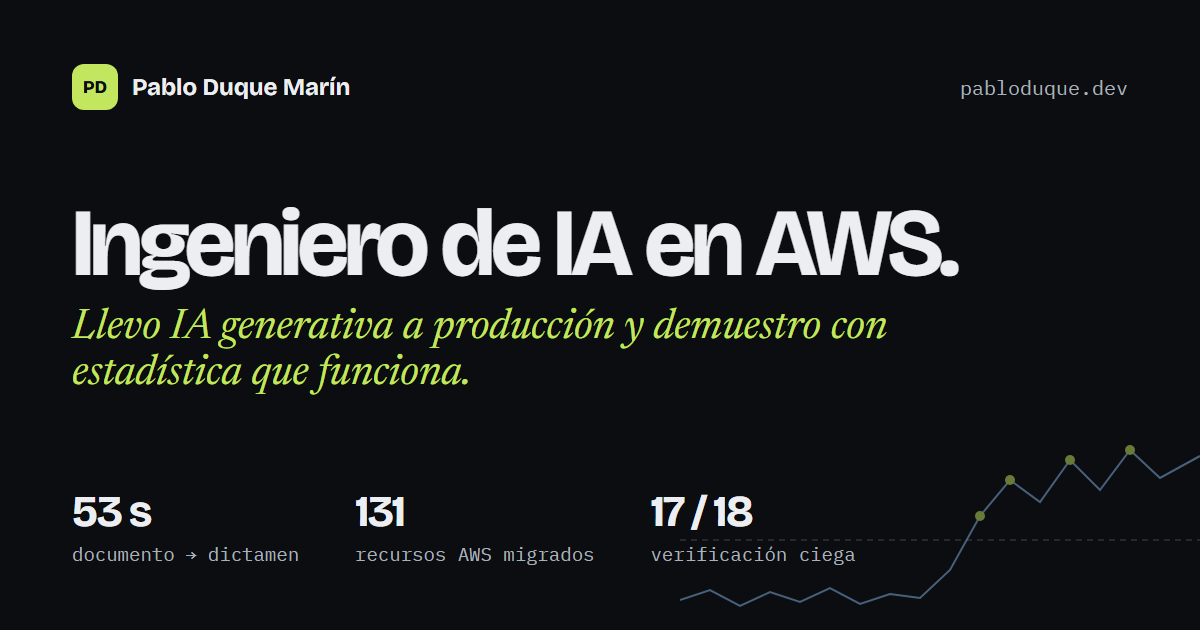
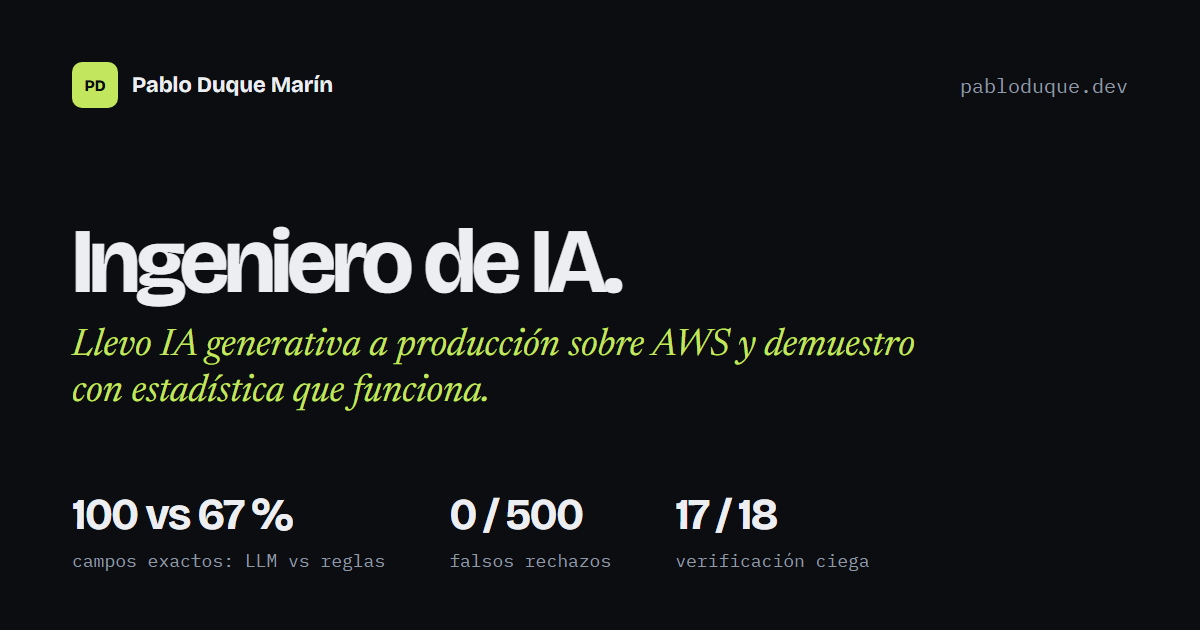
Hero: titular sin ambigüedad, disponibilidad real y cifras con comparación
- H1 «Ingeniero de IA.» (sin «en AWS», que se leía como empleado de Amazon); title, og:title y resumen alineados.
- Píldora: freelance ahora, tiempo completo desde ene. 2027.
- Cifras del hero con resultado, comparación y enlace al caso: Facturas (100 % frente a 67 % con reglas), Cotejo (0 falsos rechazos en 500) y TFM (17/18, «no verificado»).
- «Ver casos» como botón primario; CV secundario.
- Inglés fuera del hero, descrito como capacidad en Contacto.
- TFM sin la fecha de entrega en presente; grado corregido a Subteniente.
- og.png regenerada con el nuevo titular.

diff --git a/site/content.js b/site/content.js
@@ -9,11 +9,11 @@ window.PD = {
     es: {
       navWork: 'Trabajo', navSkills: 'Competencias', navMethod: 'Método', navPath: 'Trayectoria', navContact: 'Contacto',
       summary: 'Resumen 1 pág.', summaryShort: 'Resumen', cv: 'CV', cvLong: 'Descargar CV (PDF)', langAria: 'Cambiar idioma', paletteAria: 'Paleta de comandos',
-      pill: 'Disponible para roles y proyectos de ingeniería de IA · remoto',
-      h1: 'Ingeniero de IA en AWS.',
-      h1b: 'Llevo IA generativa a producción y demuestro con estadística que funciona.',
+      pill: 'Disponible: freelance ahora · tiempo completo desde ene. 2027 · remoto',
+      h1: 'Ingeniero de IA.',
+      h1b: 'Llevo IA generativa a producción sobre AWS y demuestro con estadística que funciona.',
       lead: ['Diseño pipelines de documentos, RAG y agentes sobre Amazon Bedrock, con infraestructura en Terraform y pruebas automatizadas.', 'Mido si funcionan con protocolos fijados antes de ver los datos, y publico también los resultados negativos.'],
-      ctaWork: 'Ver casos', hire: 'Caldas, Colombia · remoto (UTC−5) · español nativo, inglés B1–B2',
+      ctaWork: 'Ver casos', hire: 'Caldas, Colombia · remoto (UTC−5)',
       edu: 'Máster en IA, UNIR (finaliza feb. 2027) · Maestría en Estadística Aplicada, U. Cuauhtémoc (en curso) · Prácticas en Softart hasta dic. 2026',
       copy: 'Copiar', copied: 'Copiado', copyAria: 'Copiar correo', toastCopied: 'Correo copiado',
       monKicker: 'Lo que hago, en una carta de control',
@@ -30,22 +30,22 @@ window.PD = {
       stackTitle: 'Stack por función', stackSub: 'Nivel de uso real: producción, proyectos propios o formación.', lvPro: 'PRODUCCIÓN', lvInv: 'PROYECTOS', lvPos: 'FORMACIÓN',
       methodKicker: '03 — Método', methodTitle: 'Cuatro reglas de trabajo',
       pathKicker: '04 — Trayectoria', pathTitle: 'Trayectoria', kWork: 'TRABAJO', kEdu: 'FORMACIÓN',
-      contactKicker: '05 — Contacto', ctA: '¿Tu modelo funciona?', ctB: 'Averigüémoslo.', ctSub: 'Roles de ingeniería de IA, proyectos de documentos con IA, RAG o evaluación de modelos. Respondo en español o inglés.',
+      contactKicker: '05 — Contacto', ctA: '¿Tu modelo funciona?', ctB: 'Averigüémoslo.', ctSub: 'Roles de ingeniería de IA y de evaluación y validación de modelos, o proyectos de documentos con IA y RAG. Respondo en español o en inglés; leo y escribo documentación técnica en inglés.',
       close: 'Cerrar', problem: 'Problema', did: 'Qué hice', decisions: 'Decisiones', result: 'Resultado', repo: 'Ver repositorio', demo: 'Probar la demo', private: 'Código privado del cliente', local: 'Repositorio privado',
       prev: 'Caso anterior', next: 'Caso siguiente', replay: 'Repetir', schematic: 'Esquema ilustrativo', ongoing: 'En curso', building: 'En construcción',
       palPh: 'Ir a una sección, un caso o una acción…', palEmpty: 'Sin resultados', palNav: 'navegar', palGo: 'abrir', gSec: 'sección', gCase: 'caso', gAct: 'acción',
       aLang: 'Switch to English', aCopy: 'Copiar correo', aCv: 'Descargar CV', aSummary: 'Abrir resumen de una página',
-      rcHead: 'Ingeniero de IA en AWS · IA generativa en producción · estadística aplicada', remote: 'remoto', rcExp: 'EXPERIENCIA', rcEdu: 'FORMACIÓN', rcCases: 'RESULTADOS', rcStack: 'STACK', rcLang: 'IDIOMAS', rcLangs: 'Español nativo · inglés B1–B2',
+      rcHead: 'Ingeniero de IA · IA generativa en producción sobre AWS · estadística aplicada', remote: 'remoto', rcExp: 'EXPERIENCIA', rcEdu: 'FORMACIÓN', rcCases: 'RESULTADOS', rcStack: 'STACK', rcLang: 'IDIOMAS', rcLangs: 'Español nativo · inglés técnico (B1–B2): leo y escribo documentación',
       footBuilt: 'Desplegado con Terraform en AWS: S3, CloudFront y GitHub Actions con OIDC', footKeys: 'Atajo: Ctrl + K', updated: 'Actualizado'
     },
     en: {
       navWork: 'Work', navSkills: 'Skills', navMethod: 'Method', navPath: 'Path', navContact: 'Contact',
       summary: '1-page summary', summaryShort: 'Summary', cv: 'CV', cvLong: 'Download CV (PDF)', langAria: 'Change language', paletteAria: 'Command palette',
-      pill: 'Available for AI engineering roles and projects · remote',
-      h1: 'AI engineer on AWS.',
-      h1b: 'I take generative AI to production and prove with statistics that it works.',
+      pill: 'Available: freelance now · full-time from Jan 2027 · remote',
+      h1: 'AI engineer.',
+      h1b: 'I take generative AI to production on AWS and prove with statistics that it works.',
       lead: ['I design document, RAG and agent pipelines on Amazon Bedrock, with Terraform infrastructure and automated tests.', 'I measure whether they work with protocols fixed before looking at the data, and I publish negative results too.'],
-      ctaWork: 'See case studies', hire: 'Caldas, Colombia · remote (UTC−5) · native Spanish, English B1–B2',
+      ctaWork: 'See case studies', hire: 'Caldas, Colombia · remote (UTC−5)',
       edu: 'MSc in AI, UNIR (ends Feb 2027) · MSc in Applied Statistics, U. Cuauhtémoc (in progress) · Internship at Softart until Dec 2026',
       copy: 'Copy', copied: 'Copied', copyAria: 'Copy email', toastCopied: 'Email copied',
       monKicker: 'What I do, as a control chart',
@@ -62,21 +62,21 @@ window.PD = {
       stackTitle: 'Stack by function', stackSub: 'Real level of use: production, own projects or coursework.', lvPro: 'PRODUCTION', lvInv: 'PROJECTS', lvPos: 'COURSEWORK',
       methodKicker: '03 — Method', methodTitle: 'Four working rules',
       pathKicker: '04 — Path', pathTitle: 'Path', kWork: 'WORK', kEdu: 'EDUCATION',
-      contactKicker: '05 — Contact', ctA: 'Does your model work?', ctB: 'Let’s find out.', ctSub: 'AI engineering roles, AI document projects, RAG or model evaluation. I reply in Spanish or English.',
+      contactKicker: '05 — Contact', ctA: 'Does your model work?', ctB: 'Let’s find out.', ctSub: 'AI engineering and model evaluation and validation roles, or AI document and RAG projects. I reply in Spanish or English, and I read and write technical documentation in English.',
       close: 'Close', problem: 'Problem', did: 'What I did', decisions: 'Decisions', result: 'Outcome', repo: 'View repository', demo: 'Try the demo', private: 'Private client code', local: 'Private repository',
       prev: 'Previous case', next: 'Next case', replay: 'Replay', schematic: 'Illustrative schematic', ongoing: 'Ongoing', building: 'Under construction',
       palPh: 'Jump to a section, case or action…', palEmpty: 'No results', palNav: 'navigate', palGo: 'open', gSec: 'section', gCase: 'case', gAct: 'action',
       aLang: 'Cambiar a español', aCopy: 'Copy email', aCv: 'Download CV', aSummary: 'Open one-page summary',
-      rcHead: 'AI engineer on AWS · generative AI in production · applied statistics', remote: 'remote', rcExp: 'EXPERIENCE', rcEdu: 'EDUCATION', rcCases: 'RESULTS', rcStack: 'STACK', rcLang: 'LANGUAGES', rcLangs: 'Native Spanish · English B1–B2',
+      rcHead: 'AI engineer · generative AI in production on AWS · applied statistics', remote: 'remote', rcExp: 'EXPERIENCE', rcEdu: 'EDUCATION', rcCases: 'RESULTS', rcStack: 'STACK', rcLang: 'LANGUAGES', rcLangs: 'Native Spanish · technical English (B1–B2): I read and write documentation',
       footBuilt: 'Deployed with Terraform on AWS: S3, CloudFront and GitHub Actions with OIDC', footKeys: 'Shortcut: Ctrl + K', updated: 'Updated'
     }
   },
 
-  /* Tres métricas en la portada */
+  /* Tres métricas en la portada: resultado + comparación + caso con la evidencia (c) */
   heroStats: [
-    { v: '53 s', l: { es: 'del documento al dictamen, en producción', en: 'from document to ruling, in production' } },
-    { v: '131', l: { es: 'recursos AWS migrados a Frankfurt, plan sin diferencias', en: 'AWS resources moved to Frankfurt, zero-diff plan' } },
-    { v: '0 / 500', l: { es: 'sentencias reales marcadas por error como inexistentes', en: 'real rulings wrongly flagged as non-existent' } }
+    { v: '100 %|100%', c: 'facturas', l: { es: 'campos exactos con Claude en Bedrock; con reglas, 67 % · demo pública', en: 'exact fields with Claude on Bedrock; with rules, 67% · public demo' } },
+    { v: '0 / 500', c: 'cotejo', l: { es: 'falsos rechazos en sentencias reales; 499 de 499 inventadas detectadas', en: 'false rejections on real rulings; 499 of 499 invented ones caught' } },
+    { v: '17 / 18', c: 'tfm', l: { es: 'fallas iguales a la literatura, y aun así «no verificado»', en: 'faults matching the literature, and still “not verified”' } }
   ],
 
   /* Resultado → decisión (respaldo estadístico) */
@@ -107,7 +107,7 @@ window.PD = {
     { id: 'cotejo', kicker: { es: 'Proyecto propio · legal-tech · Colombia · 2026', en: 'Own project · legal tech · Colombia · 2026' },
       title: { es: 'Cotejo: verificar la jurisprudencia citada antes de radicar', en: 'Cotejo: checking cited case law before filing' },
       sum: { es: 'Revisa cada sentencia citada en un escrito contra fuentes oficiales: que exista, que no esté anulada y que la cita sea literal.', en: 'Checks every ruling cited in a brief against official sources: that it exists, was not annulled and is quoted verbatim.' },
-      mv: '0 / 500', ml: { es: 'sentencias reales marcadas por error como inexistentes', en: 'real rulings wrongly flagged as non-existent' },
+      mv: '0 / 500', ml: { es: 'falsos rechazos en 500 sentencias reales', en: 'false rejections across 500 real rulings' },
       metrics: [['0 / 500', { es: 'falsos «no existe» en sentencias reales', en: 'false “does not exist” on real rulings' }], ['499 / 499', { es: 'sentencias inventadas detectadas', en: 'invented rulings caught' }], ['0', { es: 'pasajes alterados aceptados como correctos', en: 'altered passages accepted as correct' }], ['85 %', { es: 'citas inexistentes en escritos de un LLM local', en: 'non-existent citations in briefs written by a local LLM' }]],
       problem: { es: 'Tras la sanción AC739-2026 de la Corte Suprema por citas inexistentes, un abogado necesita saber antes de radicar si cada sentencia que cita existe y dice lo que el escrito afirma.', en: 'After a Supreme Court sanction (AC739-2026) over non-existent citations, a lawyer needs to know before filing whether each cited ruling exists and says what the brief claims.' },
       did: { es: 'Construí una herramienta local (web y línea de comandos) que extrae las citas de un escrito y las contrasta con el índice de 29.474 sentencias de datos.gov.co y la relatoría: existencia, anulación, magistrado ponente y pasajes entre comillas, comparados palabra por palabra.', en: 'I built a local tool (web and command line) that extracts the citations from a brief and checks them against the 29,474-ruling index on datos.gov.co and the court reporter: existence, annulment, reporting judge, and quoted passages compared word by word.' },
@@ -132,7 +132,7 @@ window.PD = {
       mv: '17 / 18', ml: { es: 'fallas idénticas a Yin (2012) · veredicto: no verificado', en: 'faults identical to Yin (2012) · verdict: not verified' },
       metrics: [['17 / 18', { es: 'fallas idénticas en la verificación ciega', en: 'faults identical in the blind check' }], ['1,46 %|1.46%', { es: 'falsas alarmas del baseline PCA-T²', en: 'PCA-T² baseline false alarms' }], ['643', { es: 'pruebas del paquete común tfmfdd', en: 'tests in the shared tfmfdd package' }], ['3', { es: 'integrantes; soy el vocero', en: 'team members; I am the spokesperson' }]],
       problem: { es: 'Detectar fallos en una planta química a partir de sus sensores (Tennessee Eastman: 52 variables, 20 tipos de falla) con un protocolo que haga comparables los tres bloques del equipo.', en: 'Detect faults in a chemical plant from its sensors (Tennessee Eastman: 52 variables, 20 fault types) with a protocol that makes the team’s three blocks comparable.' },
-      did: { es: 'Respondo por el bloque de detección: PCA con T² y SPE, DPCA, y KPCA planificado para nov.–dic. Diseñé y dirigí tfmfdd v0.3, el paquete común (643 pruebas), construido con agentes de Claude Code y dos revisiones independientes. Primera entrega de la memoria: 5 de octubre.', en: 'I own the detection block: PCA with T² and SPE, DPCA, and KPCA planned for Nov–Dec. I designed and led tfmfdd v0.3, the shared package (643 tests), built with Claude Code agents and two independent reviews. First thesis submission: 5 October.' },
+      did: { es: 'Respondo por el bloque de detección: PCA con T² y SPE, DPCA, y KPCA planificado para nov.–dic. Diseñé y dirigí tfmfdd v0.3, el paquete común (643 pruebas), construido con agentes de Claude Code y dos revisiones independientes.', en: 'I own the detection block: PCA with T² and SPE, DPCA, and KPCA planned for Nov–Dec. I designed and led tfmfdd v0.3, the shared package (643 tests), built with Claude Code agents and two independent reviews.' },
       decisions: { es: ['Verificación ciega contra Yin (2012) con tolerancia fijada antes de correr: |ΔFDR| ≤ 0,5 pp en las 18 fallas.', 'Comparaciones prerregistradas: equivalencia con dos pruebas unilaterales de Wilcoxon e intervalo de Hodges-Lehmann, corrección de Holm y regla de tamaño muestral.', 'Retiré una comparación propia al ver que estaba confundida. El experimento limpio: 27,4 % frente a 3,6 % de falsas alarmas SPE al calibrar con datos reservados.'], en: ['Blind check against Yin (2012) with a tolerance fixed before running: |ΔFDR| ≤ 0.5 pp across all 18 faults.', 'Preregistered comparisons: equivalence via two one-sided Wilcoxon tests and a Hodges–Lehmann interval, Holm correction and a sample-size rule.', 'I withdrew one of my own comparisons once I saw it was confounded. The clean experiment: 27.4% versus 3.6% SPE false alarms when calibrating on held-out data.'] },
       results: { es: ['17 de 18 fallas con diferencia de 0 muestras; IDV 19 quedó a +1,00 pp, el doble de la tolerancia: «no verificado».', 'Baseline PCA: falsas alarmas 1,46 % (T²) y 2,81 % (SPE); detección media 60,1 % y 66,6 %.', 'Las fallas 3, 9 y 15 se reportan aparte: casi indetectables (≈ 5 %).'], en: ['17 of 18 faults with 0 samples of difference; IDV 19 landed at +1.00 pp, twice the tolerance: “not verified”.', 'PCA baseline: false alarms 1.46% (T²) and 2.81% (SPE); mean detection 60.1% and 66.6%.', 'Faults 3, 9 and 15 are reported separately: nearly undetectable (≈ 5%).'] },
       tags: ['PCA', 'T² · SPE', 'DPCA', 'Wilcoxon', 'Hodges-Lehmann', 'Holm', 'tfmfdd'], repo: 'https://github.com/pabdus/tfm-fdd-core' },
@@ -270,7 +270,7 @@ window.PD = {
     ['2022 – 2023', 'e', 'Bootcamp de Data Science (800+ h)|Data Science bootcamp (800+ h)', 'Henry'],
     ['2022 – 2026', 'w', 'Analista de datos|Data analyst', 'Tubos y Perfiles de Occidente S.A.S. · ETL en Python y SQL para decisiones|Tubos y Perfiles de Occidente S.A.S. · Python ETL and SQL for decision-making'],
     ['2019 – 2022', 'w', 'Fundador y gerente general|Founder and general manager', 'Narnia Producciones (Chile)'],
-    ['2011 – 2018', 'w', 'Teniente, comandante de unidad|Lieutenant, unit commander', 'Policía Nacional de Colombia|Colombian National Police'],
+    ['2011 – 2018', 'w', 'Subteniente, comandante de unidad|Second lieutenant, unit commander', 'Policía Nacional de Colombia|Colombian National Police'],
     ['2007 – 2011', 'e', 'Administración Policial y técnico en sistemas|Police Administration and systems technician', 'Policía Nacional · IES-CINOC|National Police · IES-CINOC']
   ],
 

diff --git a/site/index.html b/site/index.html
@@ -3,15 +3,15 @@
 <head>
 <meta charset="utf-8">
 <meta name="viewport" content="width=device-width, initial-scale=1, viewport-fit=cover">
-<title>Pablo Duque Marín · Ingeniero de IA en AWS</title>
-<meta name="description" content="Ingeniero de IA en AWS: IA generativa en producción con Amazon Bedrock, Terraform y pruebas automatizadas, y estadística para demostrar que funciona. Caldas, Colombia · remoto.">
+<title>Pablo Duque Marín · Ingeniero de IA · AWS, Bedrock y estadística</title>
+<meta name="description" content="Ingeniero de IA: IA generativa en producción con Amazon Bedrock, Terraform y pruebas automatizadas, y estadística para demostrar que funciona. Caldas, Colombia · remoto.">
 <link rel="canonical" href="https://pabloduque.dev/">
 <meta name="theme-color" content="#0b0d11">
 <meta name="color-scheme" content="dark">
 <meta property="og:type" content="website">
 <meta property="og:url" content="https://pabloduque.dev/">
-<meta property="og:title" content="Pablo Duque Marín · Ingeniero de IA en AWS">
-<meta property="og:description" content="IA generativa en producción, con estadística para demostrar que funciona: 53 s del documento al dictamen, 131 recursos migrados sin diferencias.">
+<meta property="og:title" content="Pablo Duque Marín · Ingeniero de IA · AWS, Bedrock y estadística">
+<meta property="og:description" content="Llevo IA generativa a producción sobre AWS y demuestro con estadística que funciona: 100 % de campos exactos (67 % con reglas) y 0 falsos rechazos en 500 sentencias reales.">
 <meta property="og:image" content="https://pabloduque.dev/og.png">
 <meta property="og:locale" content="es_CO">
 <meta property="og:locale:alternate" content="en_US">
@@ -87,7 +87,9 @@ img,svg,canvas{max-width:100%}
 .hero-grid{display:grid;grid-template-columns:repeat(auto-fit,minmax(min(100%,420px),1fr));gap:28px 56px;margin-top:40px;align-items:start}
 .lead p{margin:0 0 12px;font-size:19px;line-height:1.6;color:var(--ink2);max-width:600px;text-wrap:pretty}
 .hero-stats{display:grid;grid-template-columns:repeat(3,minmax(0,1fr));gap:0;border-top:1px solid var(--line2);border-bottom:1px solid var(--line2)}
-.hstat{padding:18px 14px 18px 0}
+.hstat{display:flex;flex-direction:column;align-items:flex-start;text-align:left;padding:18px 14px 18px 0;border:0;background:none}
+.hstat-go{margin-top:10px;font-family:var(--mono);font-size:12px;color:var(--ink3);transition:color .2s}
+.hstat:hover .hstat-go,.hstat:focus-visible .hstat-go{color:var(--lime)}
 .hstat+.hstat{padding-left:16px;border-left:1px solid var(--line)}
 .hstat-v{font-size:clamp(30px,3.2vw,46px);font-weight:700;letter-spacing:-.04em;line-height:1;color:var(--ink);font-variant-numeric:tabular-nums;white-space:nowrap}
 .hstat-l{margin-top:8px;font-size:13px;line-height:1.4;color:#a9b1ba}
@@ -388,16 +390,16 @@ noscript p{padding:16px var(--pad);color:var(--ink2)}
 
 <main>
   <header id="top" class="hero">
-    <div class="pill"><i></i><span data-k="pill">Disponible para roles y proyectos de ingeniería de IA · remoto</span></div>
-    <h1 class="title" data-k="h1">Ingeniero de IA en AWS.</h1>
-    <p class="title-b" data-k="h1b">Llevo IA generativa a producción y demuestro con estadística que funciona.</p>
+    <div class="pill"><i></i><span data-k="pill">Disponible: freelance ahora · tiempo completo desde ene. 2027 · remoto</span></div>
+    <h1 class="title" data-k="h1">Ingeniero de IA.</h1>
+    <p class="title-b" data-k="h1b">Llevo IA generativa a producción sobre AWS y demuestro con estadística que funciona.</p>
 
     <div class="hero-grid">
       <div>
         <div class="lead" id="lead"><p>Diseño pipelines de documentos, RAG y agentes sobre Amazon Bedrock, con infraestructura en Terraform y pruebas automatizadas.</p><p>Mido si funcionan con protocolos fijados antes de ver los datos, y publico también los resultados negativos.</p></div>
         <div class="ctas">
-          <a class="btn-lime" href="Pablo_Duque_CV.pdf" download data-k="cvLong">Descargar CV (PDF)</a>
-          <a class="btn-line" href="#trabajo"><span data-k="ctaWork">Ver casos</span>&nbsp;→</a>
+          <a class="btn-lime" href="#trabajo"><span data-k="ctaWork">Ver casos</span>&nbsp;→</a>
+          <a class="btn-line" href="Pablo_Duque_CV.pdf" download data-k="cvLong">Descargar CV (PDF)</a>
         </div>
       </div>
       <div>
@@ -409,7 +411,7 @@ noscript p{padding:16px var(--pad);color:var(--ink2)}
             <button data-copy data-k-aria="copyAria" aria-label="Copiar correo">pabdus3000@gmail.com</button>
           </div>
         </div>
-        <div class="hire"><b data-k="hire">Caldas, Colombia · remoto (UTC−5) · español nativo, inglés B1–B2</b><br><span data-k="edu">Máster en IA, UNIR (finaliza feb. 2027) · Maestría en Estadística Aplicada, U. Cuauhtémoc (en curso) · Prácticas en Softart hasta dic. 2026</span></div>
+        <div class="hire"><b data-k="hire">Caldas, Colombia · remoto (UTC−5)</b><br><span data-k="edu">Máster en IA, UNIR (finaliza feb. 2027) · Maestría en Estadística Aplicada, U. Cuauhtémoc (en curso) · Prácticas en Softart hasta dic. 2026</span></div>
       </div>
     </div>
 
@@ -473,7 +475,7 @@ noscript p{padding:16px var(--pad);color:var(--ink2)}
     <div class="cbox" data-reveal>
       <div class="kicker" data-k="contactKicker">05 — Contacto</div>
       <h2 id="ct-title"><span data-k="ctA">¿Tu modelo funciona?</span> <em data-k="ctB">Averigüémoslo.</em></h2>
-      <p data-k="ctSub">Roles de ingeniería de IA, proyectos de documentos con IA, RAG o evaluación de modelos.</p>
+      <p data-k="ctSub">Roles de ingeniería de IA y de evaluación y validación de modelos, o proyectos de documentos con IA y RAG. Respondo en español o en inglés; leo y escribo documentación técnica en inglés.</p>
       <div class="cbtns">
         <div class="mail"><a href="mailto:pabdus3000@gmail.com">pabdus3000@gmail.com</a><button data-copy data-k="copy">Copiar</button></div>
         <a class="cdark" href="Pablo_Duque_CV.pdf" download data-k="cvLong">Descargar CV (PDF)</a>

diff --git a/site/app.js b/site/app.js
@@ -44,13 +44,13 @@
     $('#lead').innerHTML = t.lead.map(function (p) { return '<p>' + esc(p) + '</p>'; }).join('');
     $$('[data-lang-opt]').forEach(function (el) { el.classList.toggle('on', el.getAttribute('data-lang-opt') === S.lang); });
     $('#updated').textContent = t.updated + ' ' + L(D.updated);
-    document.title = S.lang === 'es' ? 'Pablo Duque Marín · Ingeniero de IA en AWS' : 'Pablo Duque Marín · AI engineer on AWS';
+    document.title = S.lang === 'es' ? 'Pablo Duque Marín · Ingeniero de IA · AWS, Bedrock y estadística' : 'Pablo Duque Marín · AI engineer · AWS, Bedrock and statistics';
   }
 
   /* ---------- secciones ---------- */
   function renderHeroStats() {
     $('#hero-stats').innerHTML = D.heroStats.map(function (s) {
-      return '<div class="hstat"><div class="hstat-v">' + esc(L(s.v)) + '</div><div class="hstat-l">' + esc(L(s.l)) + '</div></div>';
+      return '<button class="hstat" data-open="' + s.c + '"><span class="hstat-v">' + esc(L(s.v)) + '</span><span class="hstat-l">' + esc(L(s.l)) + '</span><span class="hstat-go">' + esc(T().evOpen) + ' →</span></button>';
     }).join('');
   }
   function renderEvidence() {
@@ -409,7 +409,7 @@
     $('#summary-body').innerHTML =
       '<div class="rc-top"><div><h2>Pablo Alberto Duque Marín</h2><p class="rc-role">' + esc(t.rcHead) + '</p><p class="rc-meta">Caldas, Colombia · ' + esc(t.remote) + ' (UTC−5) · ' + D.email + ' · github.com/pabdus · linkedin.com/in/pablo-alberto-duque-marin</p></div>' +
       '<div class="rc-actions"><a class="btn-dark" href="' + D.links.cv + '" download>' + esc(t.cvLong) + '</a><button class="btn-line" data-copy>' + esc(t.aCopy) + '</button><button class="btn-line" data-close-summary>' + esc(t.close) + '</button></div></div>' +
-      '<div class="rc-stats">' + D.heroStats.concat([{ v: '17 / 18', l: { es: 'fallas idénticas en la verificación ciega del TFM', en: 'faults identical in the thesis blind check' } }]).map(function (s) { return '<div><b>' + esc(L(s.v)) + '</b><span>' + esc(L(s.l)) + '</span></div>'; }).join('') + '</div>' +
+      '<div class="rc-stats">' + D.heroStats.map(function (s) { return '<div><b>' + esc(L(s.v)) + '</b><span>' + esc(L(s.l)) + '</span></div>'; }).join('') + '</div>' +
       '<div class="rc-cols"><div><h4>' + t.rcExp + '</h4>' + tl.filter(function (e) { return e.k === 'w'; }).map(item).join('') + '<h4>' + t.rcEdu + '</h4>' + tl.filter(function (e) { return e.k === 'e'; }).map(item).join('') + '</div>' +
       '<div><h4>' + t.rcCases + '</h4>' + D.cases.map(function (c) { return '<div class="rc-c"><span>' + esc(L(c.title)) + '</span><b>' + esc(L(c.mv)) + '</b></div>'; }).join('') +
       '<h4>' + t.rcStack + '</h4><div class="rc-stack">' + D.summaryStack.map(function (k) { return '<span>' + esc(k) + '</span>'; }).join('') + '</div><h4>' + t.rcLang + '</h4><p>' + esc(t.rcLangs) + '</p></div></div>';
